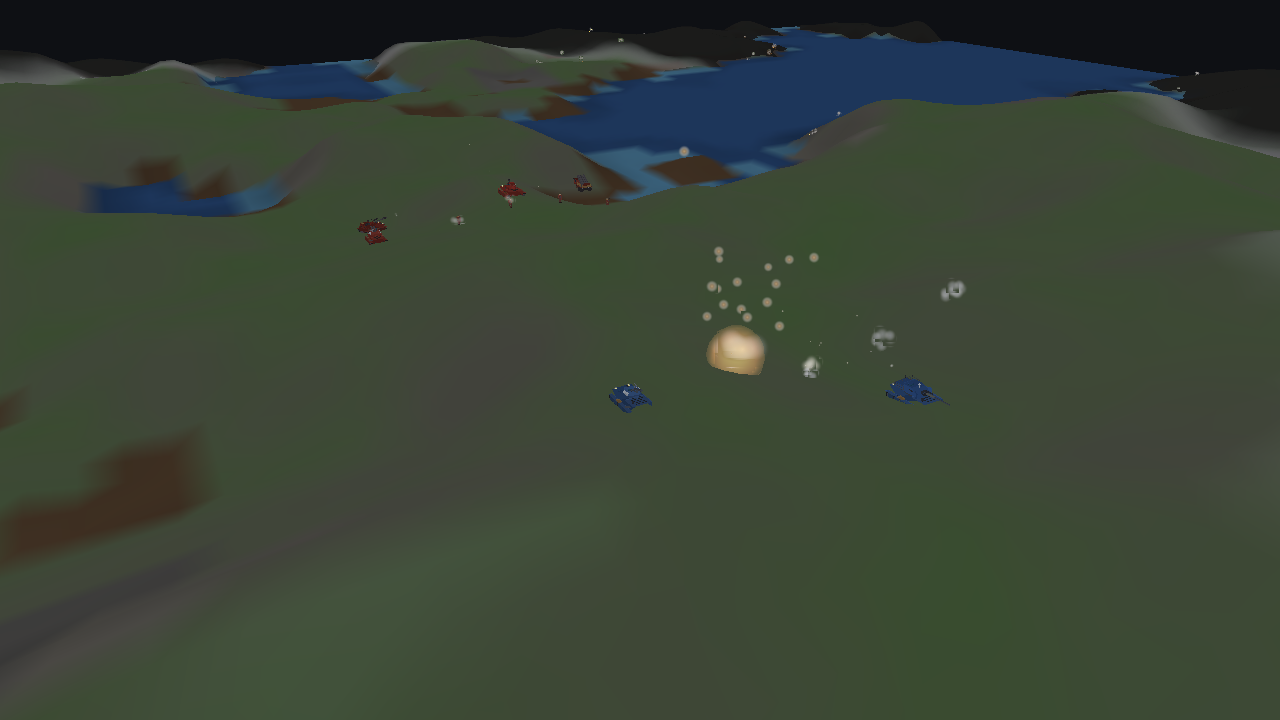
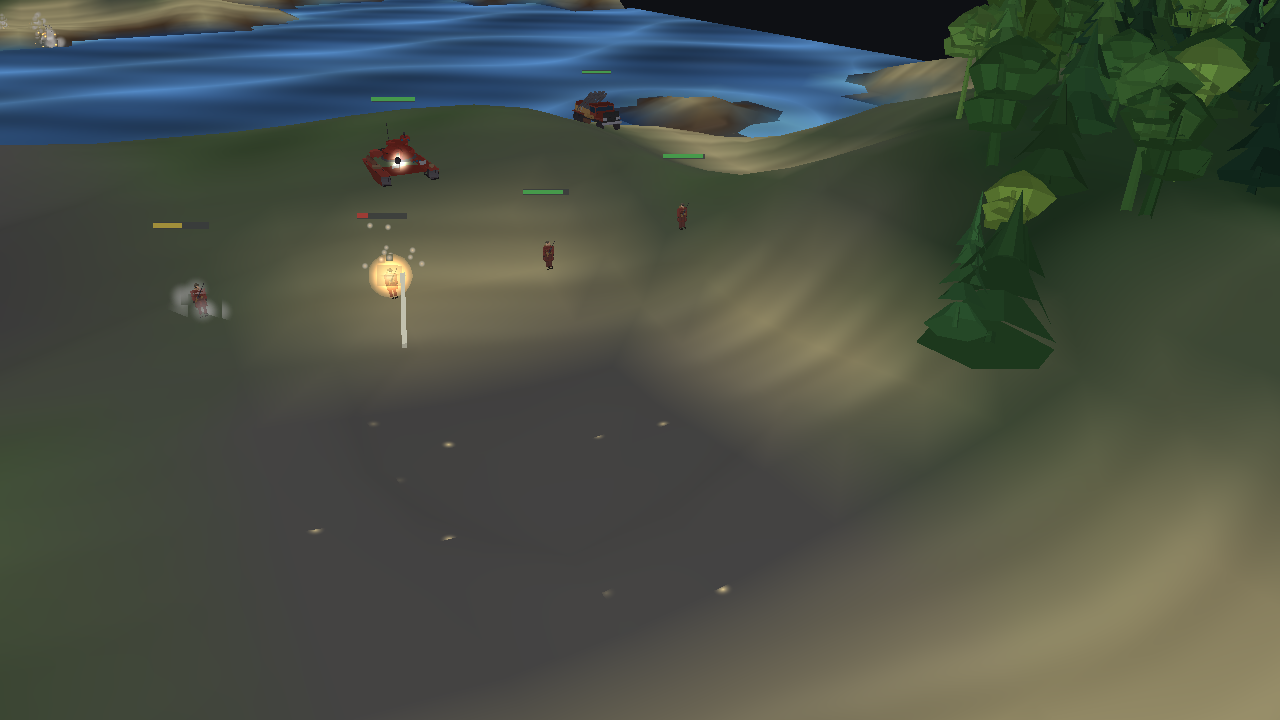
Re-render the README's screenshots from the game that exists
Every image in the README was months of commits old: they were taken before the
woodland, before the health bars, and before the briefing figure had a pipe in his
hand. The hero image still advertised v0.01-20-g37a6dcd4-dirty, and two of the six
had no command written anywhere, so nobody could have re-made them.

All of them are rendered from this build now:

  * skirmish — the base with its panels, and the version this build calls itself
  * firefight, firing-line, explosions, health — the combat fixture at four moments
  * models — the gallery, one row per faction of every role
  * briefing — one composited frame of m1_briefing, with the host holding his pipe

`health.png` is new: every unit and building carrying its own bar, both sides, which
is the thing a reader cannot see in any of the others. The table gains it and the
English and Greek captions of the other four now describe what is actually in them —
«Κύκλος κύματος κρούσης» was describing a shockwave ring that the frame it labelled
did not show.

Every command is written down, one per image, including the two that never were:
the hero shot and the briefing frame.

diff --git a/README.md b/README.md
@@ -37,28 +37,47 @@ the SDK's default, which would look like a release.
 
 | | |
 |---|---|
-| ![A firefight: a fireball, smoke and debris](docs/images/firefight.png) | ![A firing line: one of every weapon in flight](docs/images/firing-line.png) |
-| **Μάχη.** Βολές, καπνός, θραύσματα. | **Γραμμή βολής.** Όλα τα όπλα του παιχνιδιού, με βλήματα στον αέρα. |
-| ![A ground burst with its shockwave ring](docs/images/explosions.png) | ![Every model on one sheet](docs/images/models.png) |
-| **Έκρηξη.** Κύκλος κύματος κρούσης, χώμα, θραύσματα. | **Τα μοντέλα.** Όλα, παραγόμενα από σενάριο Blender. |
-| ![The briefing: a man at a desk in a study, with a Greek subtitle](docs/images/briefing.png) | |
-| **Η ενημέρωση.** Μια σκηνή με κάμερα, υπότιτλους και δικό της θέμα. | |
+| ![A firefight: two lines of machines with a shell bursting between them](docs/images/firefight.png) | ![A firing line: both sides trading fire, rounds in the air](docs/images/firing-line.png) |
+| **Μάχη.** Δύο γραμμές αντίκρυ, με βλήμα να σκάει ανάμεσά τους. | **Γραμμή βολής.** Βολές και βλήματα στον αέρα, από κάθε όπλο. |
+| ![A shell bursting on the ground, with debris thrown up](docs/images/explosions.png) | ![Every unit and building carrying its own health bar](docs/images/health.png) |
+| **Έκρηξη.** Βλήμα στο έδαφος, λάμψη και θραύσματα. | **Γραμμές υγείας.** Κάθε μονάδα και κτίριο, δικό μας και εχθρικό. |
+| ![Every model on one sheet](docs/images/models.png) | ![The briefing: a man at a desk in a study, with a Greek subtitle](docs/images/briefing.png) |
+| **Τα μοντέλα.** Όλα, παραγόμενα από σενάριο Blender. | **Η ενημέρωση.** Μια σκηνή με κάμερα, υπότιτλους και δικό της θέμα. |
 
 Όλες οι εικόνες παράγονται από το ίδιο το παιχνίδι, χωρίς να παιχτεί χέρι:
 
 ```pwsh
 $exe = "src/MiVic.Game/bin/Debug/net9.0/MiVic.Game.exe"
-& $exe --combat-demo  --screenshot docs/images/firefight.png  --screenshot-frame 22
-& $exe --fire-demo    --screenshot docs/images/firing-line.png --screenshot-frame 50
+
+# Η βάση, με τα πάνελ: η έκδοση που δείχνει είναι αυτής της κατασκευής.
+& $exe --select-hq --screenshot docs/images/skirmish.png --screenshot-frame 90 `
+       --screenshot-zoom 360 --screenshot-target-x -180 --screenshot-target-z -180
+
+# Η μάχη: και οι τέσσερις από το ίδιο fixture, σε διαφορετική στιγμή και απόσταση.
+& $exe --combat-demo --screenshot docs/images/firefight.png   --screenshot-frame 40 --screenshot-zoom 45
+& $exe --combat-demo --screenshot docs/images/firing-line.png --screenshot-frame 22 --screenshot-zoom 60
+& $exe --combat-demo --screenshot docs/images/explosions.png  --screenshot-frame 42 --screenshot-zoom 26
+& $exe --combat-demo --screenshot docs/images/health.png      --screenshot-frame 18 --screenshot-zoom 60
+
 & $exe --model-gallery docs/images/models.png
-python3 tools/render_cutscene.py --cutscene m1_briefing --out artifacts/cutscene \
+
+python3 tools/render_cutscene.py --cutscene m1_briefing --out artifacts/cutscene `
     --width 1280 --height 720
+Copy-Item artifacts/cutscene/frame0072.png docs/images/briefing.png
 ```
 
 The cutscene command needs the size because the script's default is 960×540, and the
-image above is 1280×720. Note also that it runs the **Debug** build while the probes in
-[docs/PROBE.md](docs/PROBE.md) are run from Release; content is copied per configuration,
-so a model regenerated since the last Debug build will not be in a scene rendered from it.
+image above is 1280×720; the file it copies is one of the composited frames, so the
+subtitle is the line the scene is saying at that moment. Note also that it runs the
+**Debug** build while the probes in [docs/PROBE.md](docs/PROBE.md) are run from Release;
+content is copied per configuration, so a model regenerated since the last Debug build
+will not be in a scene rendered from it.
+
+The combat fixture puts its line on the clearest ground the map has rather than at the
+map's origin, which is woodland — a firefight has to be visible to be worth
+photographing. `--screenshot-frame` picks the moment (whether a round is in the air, or
+a shell is bursting, depends entirely on it) and `--screenshot-zoom` the distance; the
+fixture's own defaults are a wide shot of the whole line.
 
 ## Factions / Παρατάξεις
 
